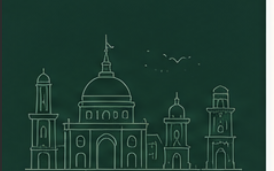
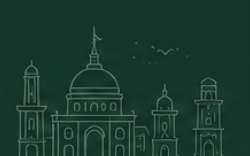
Fix sidebar line-art stray lines + colored process-step tiles
- Re-crop india_gate_lineart.png strictly inside the pure-green region (x36-286,
  y42-198) so the screenshot's gray-left/white-right chrome no longer shows as bright
  vertical lines under the lighten blend
- Process strip: put each step icon in a colored rounded tile (green/red/green/orange)
  with a circular number badge + hover scale, matching design 01

diff --git a/frontend/src/pages/Dashboard.tsx b/frontend/src/pages/Dashboard.tsx
@@ -16,11 +16,11 @@ const VERDICT: Record<string, { label: string; cls: string }> = {
 };
 
 const STEPS = [
-  { n: 1, icon: "doc", title: "Understand", desc: "Extract requirements from your document" },
-  { n: 2, icon: "book", title: "Map Standards", desc: "Find applicable Indian Standards" },
-  { n: 3, icon: "warn", title: "Validate", desc: "Detect gaps, conflicts and outdated references" },
-  { n: 4, icon: "explain", title: "Explain", desc: "Get evidence and rationale for every match" },
-  { n: 5, icon: "report", title: "Report", desc: "Generate a comprehensive review report" },
+  { n: 1, icon: "doc", tone: "bg-success-soft text-success", title: "Understand", desc: "Extract requirements from your document" },
+  { n: 2, icon: "book", tone: "bg-success-soft text-success", title: "Map Standards", desc: "Find applicable Indian Standards" },
+  { n: 3, icon: "warn", tone: "bg-danger-soft text-danger", title: "Validate", desc: "Detect gaps, conflicts and outdated references" },
+  { n: 4, icon: "explain", tone: "bg-primary-soft text-primary", title: "Explain", desc: "Get evidence and rationale for every match" },
+  { n: 5, icon: "report", tone: "bg-warning-soft text-warning", title: "Report", desc: "Generate a comprehensive review report" },
 ];
 
 export function DashboardPage() {
@@ -75,11 +75,13 @@ export function DashboardPage() {
             {/* Process strip */}
             <div className="grid grid-cols-2 gap-px border-t border-line bg-line sm:grid-cols-3 lg:grid-cols-5">
               {STEPS.map((s) => (
-                <div key={s.n} className="flex items-start gap-2.5 bg-surface p-4">
-                  <StepIcon name={s.icon} />
+                <div key={s.n} className="group flex items-start gap-2.5 bg-surface p-4 transition-colors hover:bg-panel/50">
+                  <span className={`grid h-8 w-8 flex-none place-items-center rounded-lg transition-transform duration-200 group-hover:scale-110 ${s.tone}`}>
+                    <StepIcon name={s.icon} small />
+                  </span>
                   <div>
                     <div className="flex items-center gap-1.5">
-                      <span className="text-[10px] font-bold text-muted">{s.n}</span>
+                      <span className="grid h-4 w-4 place-items-center rounded-full bg-primary text-[9px] font-bold text-white">{s.n}</span>
                       <span className="text-xs font-semibold text-ink">{s.title}</span>
                     </div>
                     <div className="mt-0.5 text-[11px] leading-snug text-muted">{s.desc}</div>
